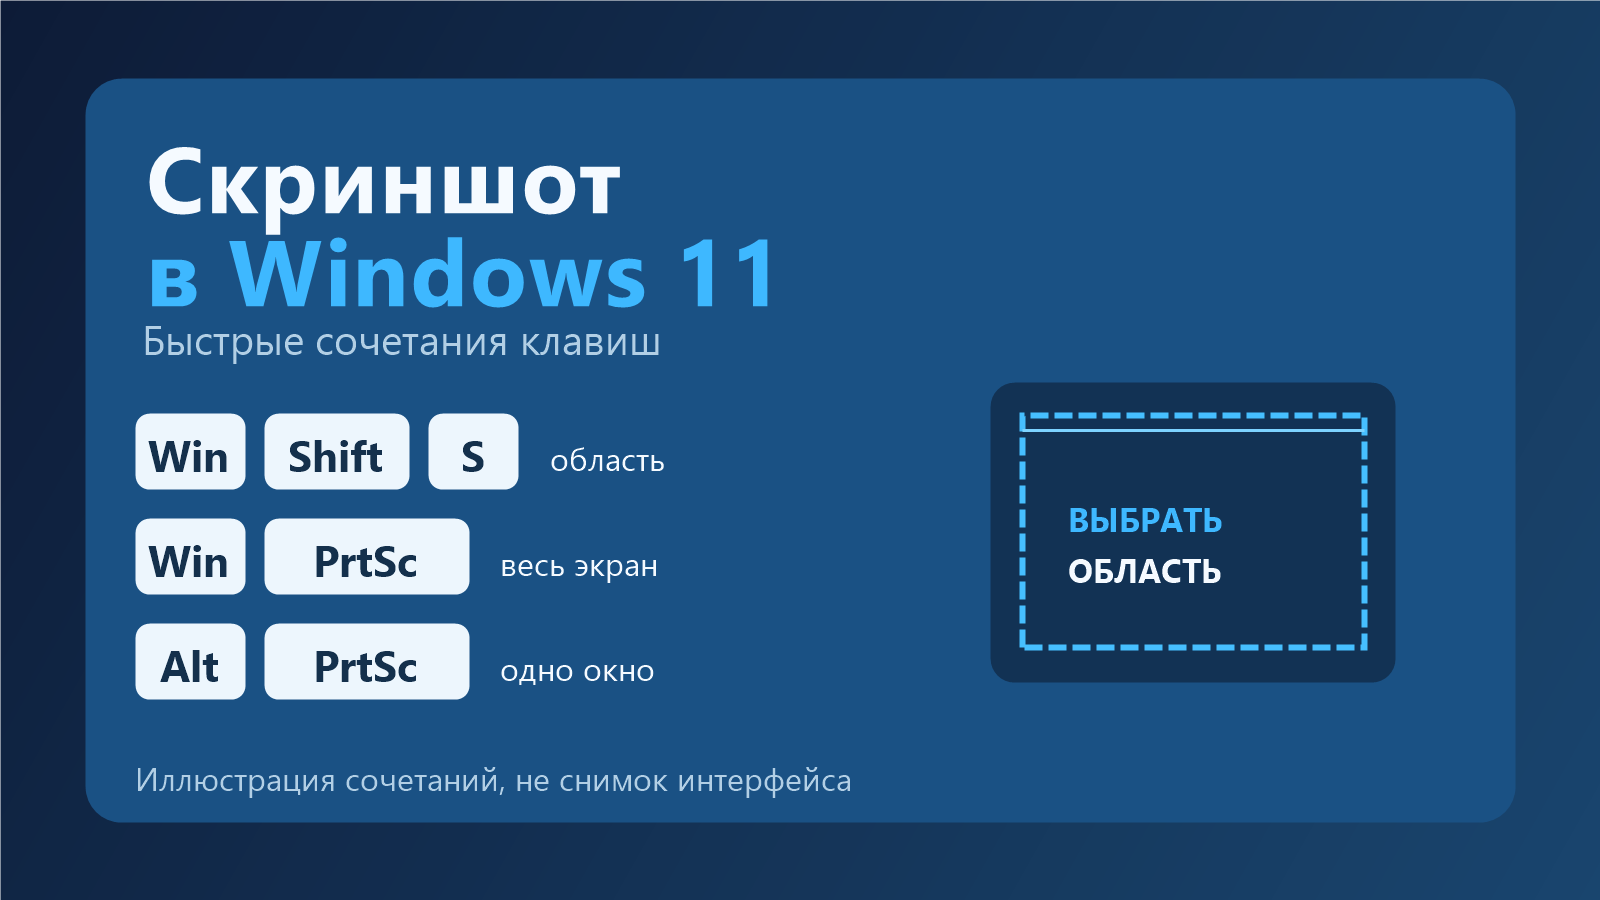
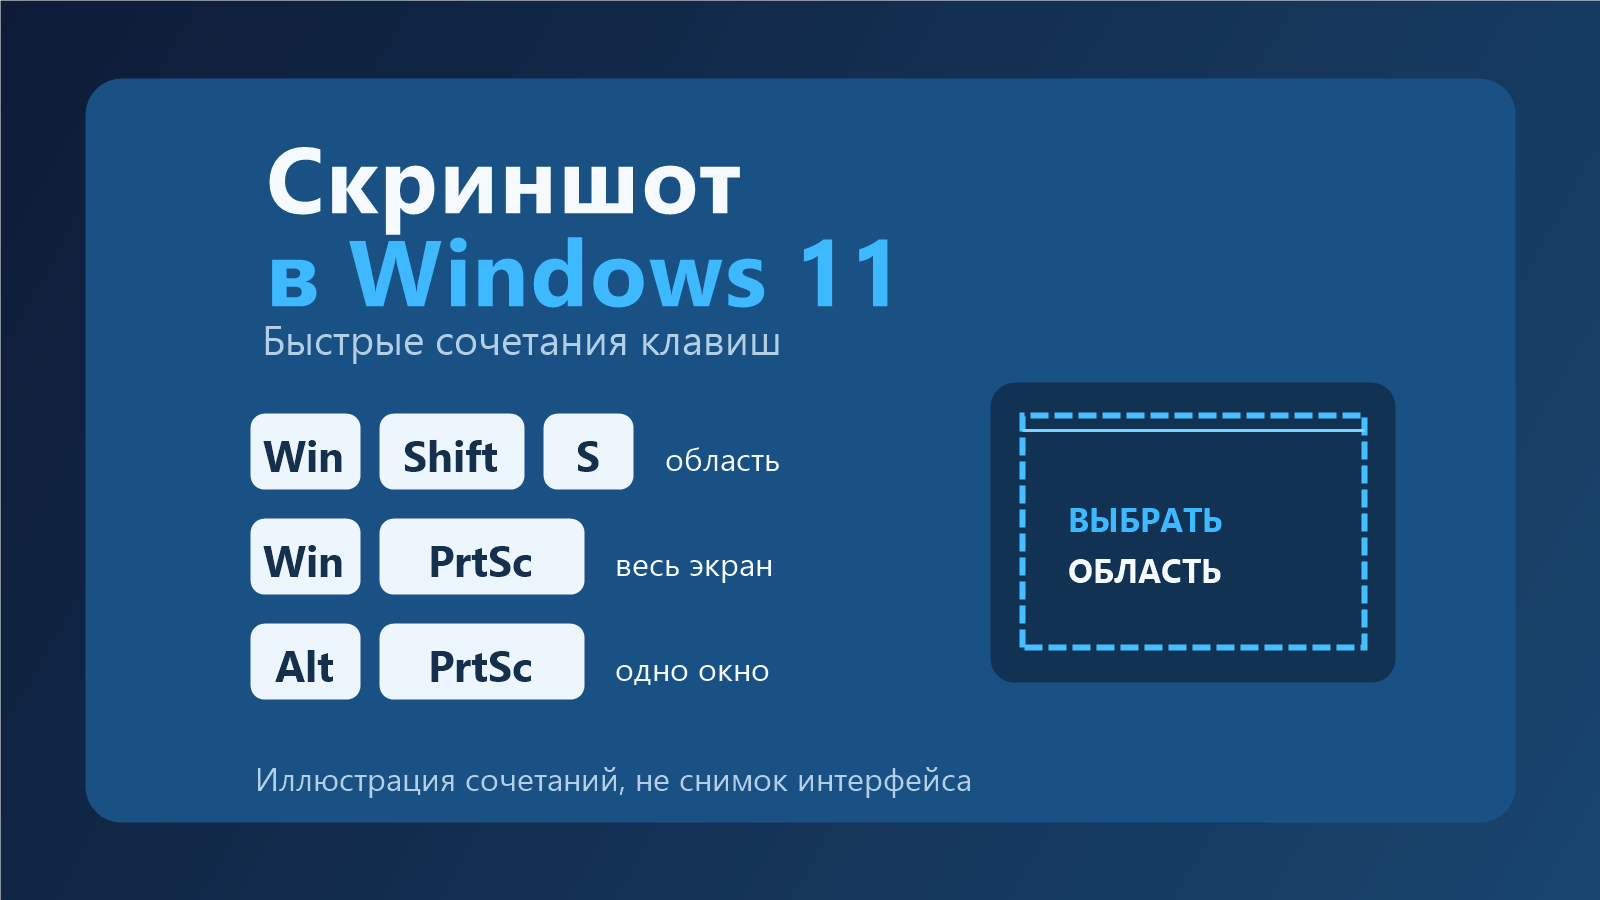
Sync detailed screenshot guide and editorial review
Update article source with WordPress media URLs, record preview checks and cover limitation, and preserve the corrected cover source.

diff --git a/screenshot-windows-11/article.html b/screenshot-windows-11/article.html
@@ -9,13 +9,13 @@
 <tr><td>Игра или приложение</td><td>Win + Alt + PrtSc</td><td>Файл в «Видео» → «Captures».</td></tr>
 <tr><td>Длинная веб-страница</td><td>Функция браузера</td><td>Изображение всей страницы, если браузер поддерживает захват.</td></tr>
 </tbody></table>
-<figure><img src="https://raw.githubusercontent.com/rJIa3a/itpotok.ru/editorial/screenshot-windows-11/screenshot-windows-11/where-screenshot-goes.png" alt="Схема: Win + PrtSc создаёт файл, Win + Shift + S отправляет снимок в буфер и Ножницы, Alt + PrtSc — в буфер" width="1600" height="900" loading="lazy"><figcaption>Куда попадает снимок после трёх основных сочетаний. Схема редакции, не снимок интерфейса Windows.</figcaption></figure>
+<figure><img src="https://itpotok.ru/wp-content/uploads/2023/01/where-screenshot-goes.png" alt="Схема: Win + PrtSc создаёт файл, Win + Shift + S отправляет снимок в буфер и Ножницы, Alt + PrtSc — в буфер" width="1600" height="900" loading="lazy"><figcaption>Куда попадает снимок после трёх основных сочетаний. Схема редакции, не снимок интерфейса Windows.</figcaption></figure>
 
 <h2>Снимок части экрана: Win + Shift + S</h2>
 <ol><li>Подготовьте экран и нажмите <strong>Win + Shift + S</strong>. Сверху появится панель выбора.</li>
 <li>Выберите прямоугольник, произвольную форму, окно или весь экран. Для прямоугольника выделите область мышью; для окна щёлкните нужное окно.</li>
 <li>Вставьте снимок в документ или сообщение сочетанием <strong>Ctrl + V</strong>. Чтобы обрезать или подписать его, откройте уведомление о снимке и используйте «Ножницы».</li></ol>
-<figure><img src="https://raw.githubusercontent.com/rJIa3a/itpotok.ru/editorial/screenshot-windows-11/screenshot-windows-11/capture-modes.png" alt="Схема четырёх режимов захвата: прямоугольная область, произвольная форма, окно и весь экран" width="1600" height="900" loading="lazy"><figcaption>Четыре режима выбора области в «Ножницах». Схема редакции, не скриншот приложения.</figcaption></figure>
+<figure><img src="https://itpotok.ru/wp-content/uploads/2023/01/capture-modes.png" alt="Схема четырёх режимов захвата: прямоугольная область, произвольная форма, окно и весь экран" width="1600" height="900" loading="lazy"><figcaption>Четыре режима выбора области в «Ножницах». Схема редакции, не скриншот приложения.</figcaption></figure>
 <p><strong>Проверка:</strong> вставьте снимок в Paint и посмотрите, что попала нужная область. В актуальных «Ножницах» изображение также может автоматически сохраняться в папку «Снимки экрана»; это зависит от настроек приложения. Если нужен файл с выбранным именем, нажмите в «Ножницах» «Сохранить как» или Ctrl + S. <strong>Ограничение:</strong> сочетание захватывает видимую часть страницы, а не всю страницу с прокруткой. <strong>Отмена:</strong> до выбора области нажмите Esc; ненужный файл удалите обычным способом.</p>
 
 <h2>Весь экран сразу в файл: Win + PrtSc</h2>

diff --git a/screenshot-windows-11/illustrations.md b/screenshot-windows-11/illustrations.md
@@ -8,12 +8,14 @@
 
 ## Обновление
 
-Новые внешние изображения не использовались. Обложка черновика заменена собственной схемой `keyboard-shortcuts-cover.png` (1600 × 900, PNG), созданной 30 сентября 2026 года скриптом `generate-cover.ps1` средствами System.Drawing. На ней три сочетания клавиш и пояснение «Иллюстрация сочетаний, не снимок интерфейса». Схема относится к таблице выбора способа и шагам с клавиатурой. Изображение загружено в медиатеку WordPress и снабжено alt-текстом и подписью.
+Новые внешние изображения не использовались. Обложка черновика заменена собственной схемой сочетаний клавиш. Её первая версия в WordPress: https://itpotok.ru/wp-content/uploads/2024/06/keyboard-shortcuts-cover.png. Схема относится к таблице выбора способа и шагам с клавиатурой; она не выдаётся за снимок интерфейса.
+
+В предпросмотре тема обрезает эту обложку по бокам и часть текста слева пропадает. Скрипт `generate-cover.ps1` и файл `keyboard-shortcuts-cover.png` обновлены с учётом обрезки; исправленный вариант загружен в медиатеку: https://itpotok.ru/wp-content/uploads/2023/01/keyboard-shortcuts-cover.png (ID 11911). Назначить его обложкой черновика через медиамодальное окно пока не удалось: после сохранения в предпросмотре остаётся первая версия. Это открытая задача перед публикацией.
 
 Для детальных шагов с меню «Ножниц» полезны собственные проверенные кадры русскоязычного интерфейса Windows 11; пока они не получены, чужие изображения не размещаются и не подписываются как собственные. Старую обложку в публичный репозиторий не добавляли.
 
 ## Схемы подробного руководства
 
-- `capture-modes.png` (1600 × 900, PNG): четыре режима выделения. Относится к шагу выбора режима после Win + Shift + S.
-- `where-screenshot-goes.png` (1600 × 900, PNG): разница между файлом, буфером и автосохранением. Относится к таблице выбора способа и разделу поиска файла.
+- `capture-modes.png` (1600 × 900, PNG): четыре режима выделения. Относится к шагу выбора режима после Win + Shift + S. Копия в WordPress: https://itpotok.ru/wp-content/uploads/2023/01/capture-modes.png
+- `where-screenshot-goes.png` (1600 × 900, PNG): разница между файлом, буфером и автосохранением. Относится к таблице выбора способа и разделу поиска файла. Копия в WordPress: https://itpotok.ru/wp-content/uploads/2023/01/where-screenshot-goes.png
 - Обе схемы созданы редакцией 30 сентября 2026 года скриптом `generate-guide-diagrams.ps1` средствами System.Drawing. В рисунках и подписях прямо указано, что это не кадры интерфейса Windows. Чужие файлы не использованы.

diff --git a/screenshot-windows-11/README.md b/screenshot-windows-11/README.md
@@ -2,7 +2,7 @@
 
 - Страница: https://itpotok.ru/take-screenshot-windows-11/
 - Рабочая ветка: `editorial/screenshot-windows-11`
-- Статус: исходная опубликованная версия зафиксирована отдельным коммитом GitHub; обновлённая редакция сохранена в черновике WordPress и проверена в предпросмотре. Опубликованная страница не менялась.
+- Статус: исходная опубликованная версия зафиксирована отдельным коммитом GitHub; подробное руководство сохранено в черновике WordPress и проверено в предпросмотре. Опубликованная страница не менялась.
 - Черновик WordPress: https://itpotok.ru/wp-admin/post.php?post=11903&action=edit
 - Предпросмотр: https://itpotok.ru/?p=11903&preview=true
 
@@ -10,4 +10,4 @@
 
 Источник исходной версии — публичный HTML страницы, а не экспорт редактора WordPress. Метаданные записи и настройки блоков не переносились. Отрывок WordPress: «Чтобы снять часть экрана в Windows 11, нажмите Win + Shift + S и выделите область. Для полного экрана сразу в файл используйте Win + PrtSc, для одного окна — Alt + PrtSc. Ниже — как сохранить и найти снимок, настроить PrtSc и воспользоваться „Ножницами“».
 
-Содержание правок — в `changes.md`, первичные источники и границы проверки — в `factcheck.md`, сведения об иллюстрациях — в `illustrations.md`. Обложка `keyboard-shortcuts-cover.png` создана редакцией скриптом `generate-cover.ps1` и загружена в черновик. Предпросмотр проверен 30 сентября 2026 года: заголовки, таблица, обложка, отрывок и ссылки отображаются; пять внешних ссылок имеют `rel="nofollow"`.
+Содержание правок — в `changes.md`, первичные источники и границы проверки — в `factcheck.md`, сведения об иллюстрациях — в `illustrations.md`. Две схемы внутри статьи созданы редакцией и загружены в WordPress. Предпросмотр проверен 30 сентября 2026 года: заголовки, таблица, обе схемы, списки и девять внешних ссылок отображаются; все внешние ссылки имеют `rel="nofollow"`. Обложка черновика пока использует предыдущую собственную схему; проблема обрезки текста темой описана в `illustrations.md`.

diff --git a/screenshot-windows-11/changes.md b/screenshot-windows-11/changes.md
@@ -22,3 +22,5 @@
 - После повторного сравнения с поисковой копией материала remontka.pro расширены сценарии: длинная страница, один монитор, журнал буфера, разметка и устранение неполадок.
 - Добавлены две собственные схемы режимов захвата и мест сохранения; обе прямо обозначены как схемы, а не скриншоты Windows.
 - Добавлены первичные документы Mozilla и ShareX, а также документы Microsoft о журнале буфера и нескольких дисплеях. Непроверенные практические сценарии указаны в `factcheck.md`.
+- Черновик сохранён в WordPress; в предпросмотре проверены таблица, нумерованные шаги, обе схемы и девять ссылок с `rel="nofollow"`.
+- Исправлен исходник собственной обложки после выявленной обрезки в теме и загружен исправленный файл. WordPress пока оставляет прежнюю версию обложки; это отмечено в `illustrations.md` как задача перед публикацией.
